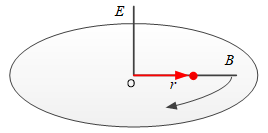
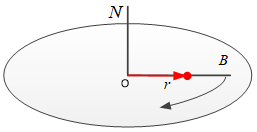
add sth

diff --git a/docs/reinforcement-learning/reinforcement-learning.md b/docs/reinforcement-learning/reinforcement-learning.md
@@ -16,7 +16,35 @@
 
 ===
 
-地图：
+# 深度强化学习入门
+
+[强化学习怎么入门好？](https://www.zhihu.com/question/277325426/answer/2786792954)
+
+必须推荐王树森、黎彧君、张志华的新书《深度强化学习》，已经正式出版。这是一本正式出版前就注定成为经典的入门书籍——其在线公开课视频播放量超过一百万次，助力数万“云学生”——更加高效、方便、系统地学习相关知识。课程主页这里：https://github.com/wangshusen/DRL 还有对应的在线公开课视频和代码，B站、Github都有。下文内容来自作者王树森写的前言。
+
+[强化学习怎么入门好？](https://www.zhihu.com/question/277325426/answer/1544863580)
+
+1.看李宏毅的强化学习视频-b站随便找一个最新最全的；
+
+2.看郭宪大佬的《深入浅出强化学习》-知乎有他的专栏文章；
+
+3.代码刷openai的spinningup。
+
+目前我认为最简洁最不走弯路的方法。至少节省大家半年的随机探索时间
+
+其他的教材对于强化的公式推导不够透彻，
+
+其他几门视频课难度高，不适合入门；
+
+其他的代码库，新手根本看不懂。
+
+最后贴上我基于spinup封装好的一个强化学习库：
+
+https://github.com/kaixindelele/DRL-tensorflow
+
+https://github.com/kaixindelele/DRLib
+
+# 地图：
 
 [全网首发|| 最全深度强化学习资料(永久更新)](https://mp.weixin.qq.com/s?__biz=MzU0MTgxNDkxOA%3D%3D&idx=1&mid=2247484575&scene=21&sn=42fe3fc7d5978ca9da467fde38a13245#wechat_redirect)
 
@@ -177,6 +205,27 @@ RL-algorithms，更新一些基础的RL代码，附带了各个算法的介绍
 [对话TensorLayer项目发起者董豪](https://zhuanlan.zhihu.com/p/72304092)
 
 [TensorLayer进阶资源](https://www.jianshu.com/p/d206fb7a190d)
+
+
+
+# 新概念
+
+## 重生强化
+
+我记得我刚开始学强化的时候，好奇的一个问题，对于强化的网络，如果一个开始就全给的专家数据，和从零开始学习，从试错，到自己学成专家，哪个会更好一些？
+看了Reset-RL和demo-RL之后，好像答案比较明确了，还是得有高质量的数据，然后少许交互就能快速获得一个高质量策略。而从头开始试错，不断摸索的策略，很可能会因为早期的垃圾数据，导致陷入局部最优（首因偏差)，上不去~
+
+发布于 2022-12-09・IP 属地安徽
+
+这两个是什么算法，求指路
+
+后者是DDPGfD，前者是primacy bias  in rl [ResetNet-The Primacy Bias in Deep Reinforcement Learning](https://www.bilibili.com/video/BV1wG4y157we/?vd_source=147fb813418c7610c21b6a5618c85cb7)
+
+[重生强化【Reincarnating RL】论文梳理](https://zhuanlan.zhihu.com/p/591880627)
+
+
+
+
 
 # 不重要
 

diff --git a/docs/autopilot/navigation/coriolis-theorem/coriolis-theorem.md b/docs/autopilot/navigation/coriolis-theorem/coriolis-theorem.md
@@ -6,19 +6,19 @@
 
 ![e-rot-b](pic/e-rot-b.png)
 
-设有矢量$r$，$e$和$b$是相对旋转的两个坐标系，$b$系相对于$e$系的旋转角速度为$w_{eb}$，则哥式定理可以描述为
+设有矢量$r$，$n$和$b$是相对旋转的两个坐标系，其中，$n$为与大地固连的导航坐标系，即北东地坐标系，$b$为与$oB$机体固连的体轴系。$b$系相对于$n$系的旋转角速度为$w_{eb}$，则哥式定理可以描述为
 $$
-\left.\frac{dr}{dt}\right|_e=\left.\frac{dr}{dt}\right|_b+w_{eb}\times r
+\left.\frac{dr}{dt}\right|_n=\left.\frac{dr}{dt}\right|_b+w_{eb}\times r
 $$
 
-其中，$\left.\frac{dr}{dt}\right|_e$是在$e$系下观察到的矢量$r$相对于时间的变化率（绝对变化率），$\left.\frac{dr}{dt}\right|_b$是在$b$系下观察到的矢量$r$相对于时间的变化率（相对变化率），$w_{eb}\times r$是$b$系相对于$e$系旋转造成的矢量$r$相对于时间的变化率（牵连变化率）。
+其中，$\left.\frac{dr}{dt}\right|_n$是在$n$系下观察到的矢量$r$相对于时间的变化率（绝对变化率），$\left.\frac{dr}{dt}\right|_b$是在$b$系下观察到的矢量$r$相对于时间的变化率（相对变化率），$w_{eb}\times r$是$b$系相对于$n$系旋转造成的矢量$r$相对于时间的变化率（牵连变化率）。
 
-将公式中的矢量向$e$系投影，即定理公式在$e$系下表示，则为
+将公式中的矢量向$n$系投影，即定理公式在$n$系下表示，则为
 
 $$
 \dot{r}^e=C_b^e\dot{r}^b+w_{eb}^e\times r^m
 $$
-直观一点从小球绕柱的例子会好理解一些。如上图，以中间柱子为固定的$e$系，平面上的柱子为$b$系，中心为原点，指向小球的矢量为$r$，在$b$柱绕$e$柱旋转的同时，小球沿着$b$柱做沿着半径方向的平移运动，考虑小球的速度矢量。那么，从$e$系的角度来看小球的运动$\left.\frac{dr}{dt}\right|_e$，包括小球沿$b$柱方向的运动$\left.\frac{dr}{dt}\right|_b$，和$b$柱绕$e$柱产生的运动$w_{eb}^e\times r$。
+直观一点从小球绕柱的例子会好理解一些。如上图，以中间柱子为固定的$n$系，平面上的柱子为$b$系，中心为原点，指向小球的矢量为$r$，在$b$柱绕$n$柱旋转的同时，小球沿着$b$柱做沿着半径方向的平移运动，考虑小球的速度矢量。那么，从$n$系的角度来看小球的运动$\left.\frac{dr}{dt}\right|_n$，包括小球沿$b$柱方向的运动$\left.\frac{dr}{dt}\right|_b$，和$b$柱绕$n$柱产生的运动$w_{eb}^e\times r$。
 
 # 参考资料
 

diff --git a/docs/autopilot/navigation/coord-trans-and-euler-kinematics-equation/coord-trans-and-euler-kinematics-equation.md b/docs/autopilot/navigation/coord-trans-and-euler-kinematics-equation/coord-trans-and-euler-kinematics-equation.md
@@ -433,21 +433,21 @@ y_b\\
 z_b
 \end{bmatrix}
 =
-T_e^b
+T_n^b
 \begin{bmatrix}
-x_e\\ 
-y_e\\
-z_E
+x_n\\ 
+y_n\\
+z_n
 \end{bmatrix}
 =
 R_x(\phi)\cdot R_y(\theta)\cdot R_z(\psi)
 \begin{bmatrix}
-x_e\\ 
-y_e\\
-z_E
+x_n\\ 
+y_n\\
+z_n
 \end{bmatrix}
 $$
-其中，$[x_b, y_b, z_b]^T$是矢量在机体轴系下的坐标，$[x_e, y_e, z_e]^T$是矢量在大地轴系下的坐标。
+其中，$[x_b, y_b, z_b]^T$是矢量在机体轴系下的坐标，$[x_n, y_n, z_n]^T$是矢量在大地轴系下的坐标。
 
 可利用MatLab求解坐标转换矩阵：
 
@@ -485,9 +485,9 @@ R_phi * R_theta * R_psi =
 
 也就是
 
-大地轴系转机体轴系的坐标转换矩阵$T_e^b$为
+大地轴系转机体轴系的坐标转换矩阵$T_n^b$为
 $$
-T_e^b
+T_n^b
 =
 \begin{bmatrix}
 \cos\psi \cos\theta & \cos\theta \sin\psi & -\sin\theta\\
@@ -495,19 +495,19 @@ T_e^b
 \cos\psi \sin\theta \cos\phi + \sin\psi \sin\phi & \sin\psi \sin\theta \cos\phi - \cos\psi \sin\phi & \cos\theta \cos\phi\\
 \end{bmatrix}
 $$
-机体轴系转大地轴系的坐标转换矩阵$T_b^e$为$T_e^b$的转置：
+机体轴系转大地轴系的坐标转换矩阵$T_b^n$为$T_n^b$的转置：
 $$
-T_b^e=\left(T_e^b\right)^{-1}=\left(T_e^b\right)^T
+T_b^n=\left(T_n^b\right)^{-1}=\left(T_n^b\right)^T
 $$
 
 ## 万向节死锁
 
 比如机头向上抬头90度，那么飞机的滚转角旋转的$x'''$轴就会和偏航角旋转的$z$轴相重合，就无法做出绕$z'''$的侧向摆动了。
 
-即此时$\theta=90^{\circ}$，那么大地轴系转机体轴系的坐标转换矩阵$T_e^b$为
+即此时$\theta=90^{\circ}$，那么大地轴系转机体轴系的坐标转换矩阵$T_n^b$为
 $$
 \begin{aligned}
-T_e^b
+T_n^b
 &=
 \begin{bmatrix}
 \cos\psi \cos\theta & \cos\theta \sin\psi & -\sin\theta\\

diff --git a/docs/autopilot/navigation/quaternion/quaternion.md b/docs/autopilot/navigation/quaternion/quaternion.md
@@ -2,6 +2,8 @@
 
 - [返回上层目录](../navigation.md)
 
+# 为什么要用四元数
+
 四元数的矢量部分直接对应了旋转轴，标量和矢量部分共同决定了旋转角，这是比欧拉角三个角表示旋转更为接近本质的方法。
 
 相较于欧拉角求旋转向量坐标的方法，
@@ -37,11 +39,39 @@ $$
 
 
 
+
+
+# 四元数的性质
+
+Graßmann积
+
+纯四元数有一个很重要的特性：如果有两个纯四元数
+
+[四元数的定义与性质](https://blog.csdn.net/wxc_1998/article/details/119038069)
+
+
+
+
+
+
+
+# 参考资料
+
+
+
+
+
+===
+
+* [一个对四元数旋转的简单推导](https://zhuanlan.zhihu.com/p/166674954)
+
+
+
 * [3Blue1Brown四元数的可视化](https://www.bilibili.com/video/BV1SW411y7W1)
 
 * [3Blue1Brown四元数和三维转动](https://www.bilibili.com/video/BV1Lt411U7og)，[可互动的探索式视频](https://eater.net/quaternions)
 
-
+直观认识四元数，不过比较难以想象四维空间。。
 
 
 

diff --git a/docs/reinforcement-learning/industry-application/tencent/honor-of-kings/honor-of-kings.md b/docs/reinforcement-learning/industry-application/tencent/honor-of-kings/honor-of-kings.md
@@ -2,3 +2,36 @@
 
 * [返回上层目录](../tencent.md)
 
+
+
+
+
+* [王者荣耀的B面：人类在此喧闹，AI却在他们脚下悟道 ](https://game.sohu.com/a/578050860_99938933)
+
+
+
+Hierarchical Macro Strategy Model for MOBA Game AI
+
+https://arxiv.org/pdf/1812.07887.pdf
+
+Towards Playing Full MOBA Games with Deep Reinforcement Learning
+
+https://arxiv.org/pdf/2011.12692.pdf
+
+Supervised Learning Achieves Human-Level Performance in MOBA Games: A Case Study of Honor of Kings
+
+https://arxiv.org/ftp/arxiv/papers/2011/2011.12582.pdf
+
+Mastering Complex Control in MOBA Games with Deep Reinforcement Learning
+
+AAAI2020最新论文，深度强化学习，用于王者荣耀1v1模式，cat貂蝉被人机3:0带走
+
+https://arxiv.org/pdf/1912.09729.pdf
+
+Learning Diverse Policies in MOBA Games via Macro-Goals
+
+https://arxiv.org/pdf/2110.14221.pdf
+
+Actor-Criticpolicy Optimization in a Large-Scale Imperfect-Information Game
+
+https://openreview.net/pdf?id=DTXZqTNV5nW

diff --git a/docs/README.md b/docs/README.md
@@ -399,8 +399,8 @@
       * PromptCLUE1.0 202210
       * PromptCLUE1.5 202211
       * ChatYuan 202212
-    * 百度
-      * ERNIE-Bot文心一言 202302
+    * [百度](natural-language-processing/large-language-model/industry-application/baidu/baidu.md)
+      * [ERNIE-Bot文心一言](natural-language-processing/large-language-model/industry-application/baidu/ERNIE-Bot/ERNIE-Bot.md) 202302
     * [BlinkDL](natural-language-processing/large-language-model/industry-application/blinkdl/blinkdl.md)
       * [ChatRWKV](natural-language-processing/large-language-model/industry-application/blinkdl/ChatRWKV/ChatRWKV.md) 对标ChatGPT的开源项目，基于RNN架构 202208
     * [HPC-AI Tech](natural-language-processing/large-language-model/industry-application/hpcaitech/hpcaitech.md)

diff --git a/docs/artificial-general-intelligence/industry-application/openai/openai-introduction/openai-introduction.md b/docs/artificial-general-intelligence/industry-application/openai/openai-introduction/openai-introduction.md
@@ -4,5 +4,29 @@
 
 
 
+OpenAI历年发表情况（总107）
+
+* 2022：5篇
+* 2021：7篇
+* 2020：7篇
+* 2019：14篇
+* 2018：30篇
+* 2017：26篇
+* 2016：18篇
+
+从刚开始他们对整个强化学习的探索，到最后聚焦GPT系列，切掉机器人方向，可以看出，机器人+强化学习方向可能 真的有点问题~~
+
+
+
+
+
+# 参考资料
+
+===
+
 [ChatGPT背后：从0到1，OpenAI的创立之路](https://mp.weixin.qq.com/s/bo-zVSi5sqe1l7UfCzgEbw)
+
+
+
+
 

diff --git a/docs/natural-language-processing/seq2seq-and-attention-mechanism/seq2seq-and-attention-mechanism.md b/docs/natural-language-processing/seq2seq-and-attention-mechanism/seq2seq-and-attention-mechanism.md
@@ -269,3 +269,6 @@ Seq2Seq 模型分析
 [目前主流的attention方法都有哪些？ 张俊林](https://www.zhihu.com/question/68482809/answer/264632289)
 
 张俊林写的，已经看过了其注意力模块，有空仔细看后半部分的自注意力部分。
+
+[目前主流的attention方法都有哪些？「Attention九层塔——理解Attention的九层境界」](https://www.zhihu.com/question/68482809/answer/1876764572)
+

diff --git a/docs/natural-language-processing/large-language-model/industry-application/baidu/ERNIE-Bot/ERNIE-Bot.md b/docs/natural-language-processing/large-language-model/industry-application/baidu/ERNIE-Bot/ERNIE-Bot.md
@@ -1,0 +1,10 @@
+# ERNIE-Bot文心一言
+
+* [返回上层目录](../baidu.md)
+
+
+
+[2023年3月16日百度开启邀请测试「文心一言」，有哪些信息值得关注？](https://www.zhihu.com/question/589937459/answer/2939039769)
+
+[文心一言算力从哪来？自家最大智算中心：算力规模4EFLOPS，base李彦宏老家](https://mp.weixin.qq.com/s/0f51e4aUmqlXBiztfaDfeg)
+

diff --git a/docs/natural-language-processing/large-language-model/industry-application/baidu/baidu.md b/docs/natural-language-processing/large-language-model/industry-application/baidu/baidu.md
@@ -1,0 +1,5 @@
+# 百度
+
+* [返回上层目录](../industry-application.md)
+* [ERNIE-Bot](ERNIE-Bot/ERNIE-Bot.md)
+
